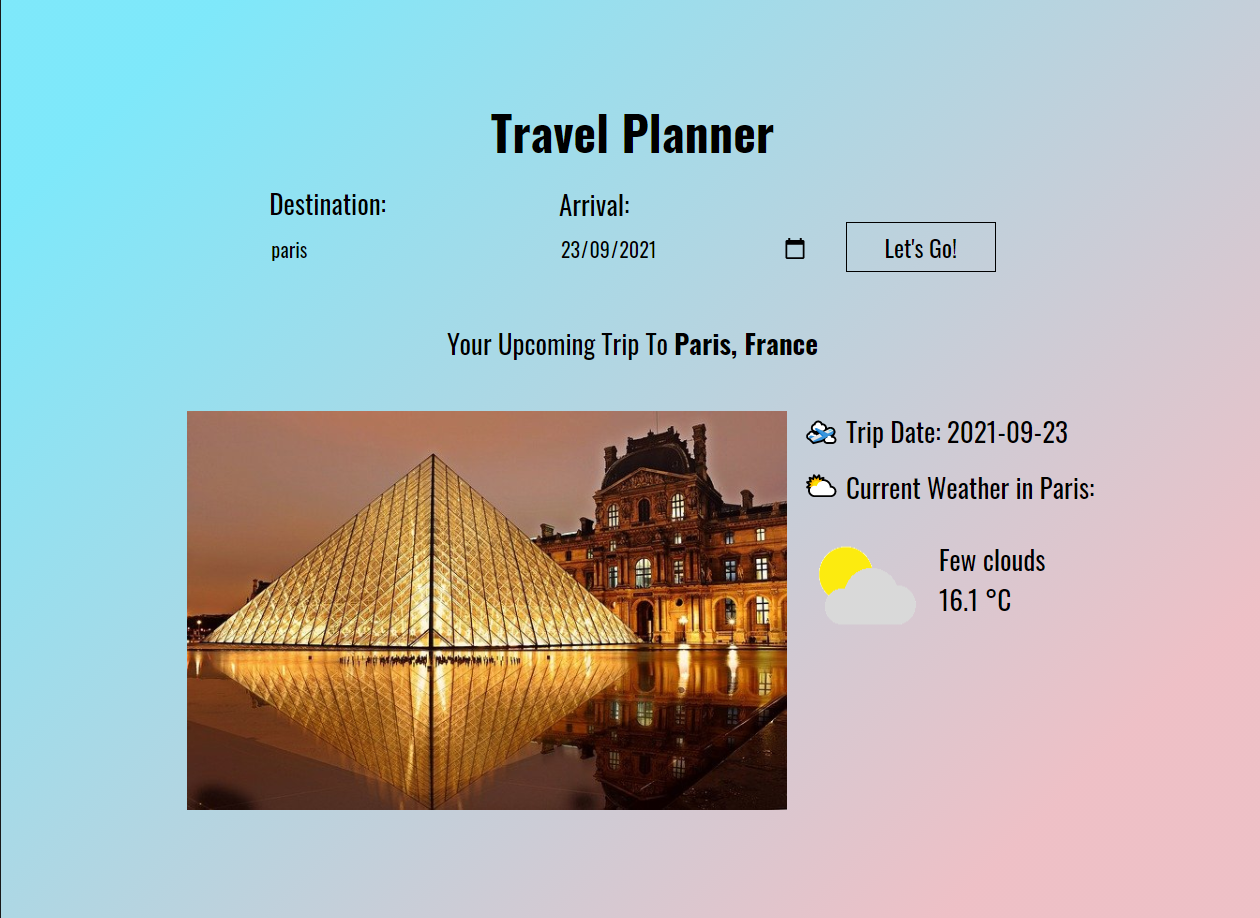
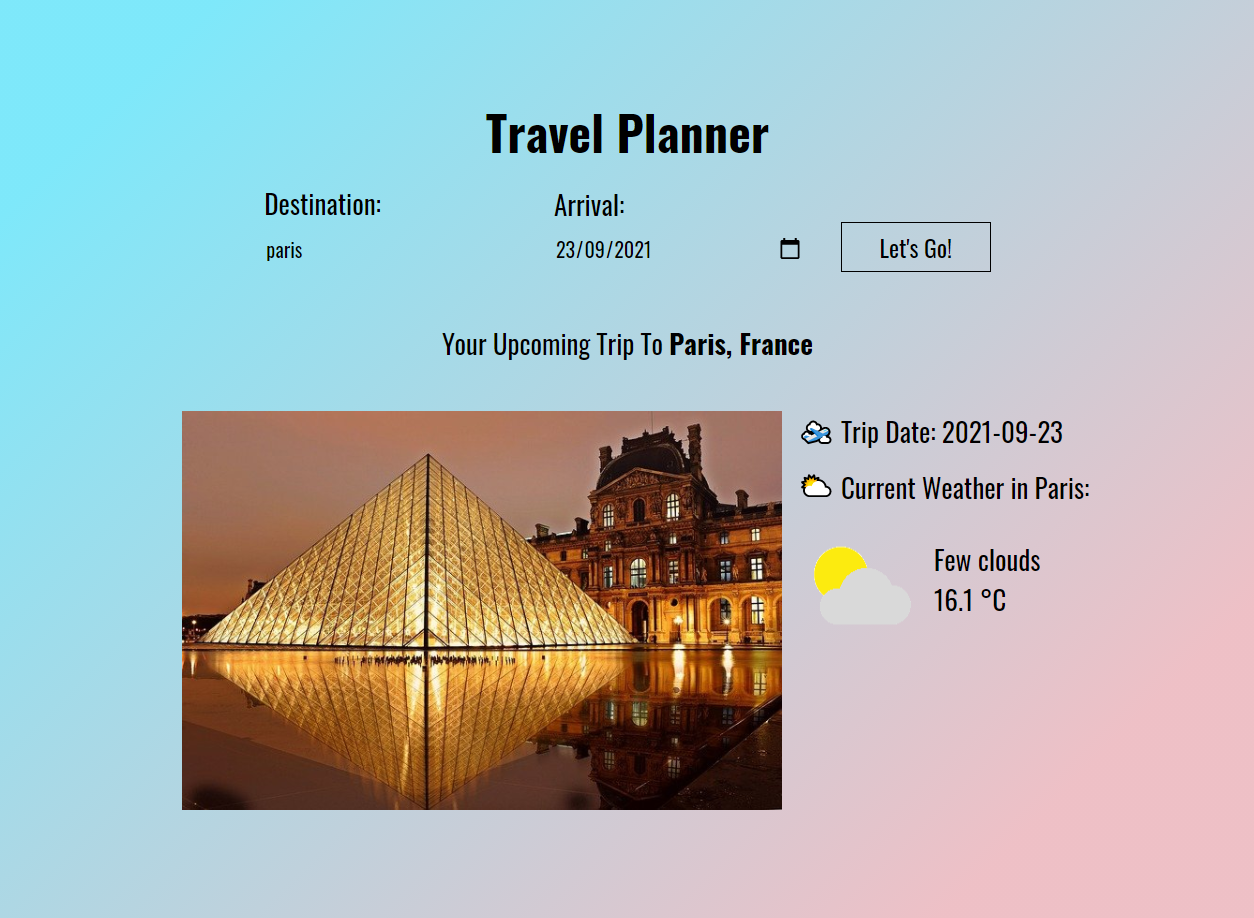
update images

diff --git a/README.md b/README.md
@@ -19,10 +19,13 @@ This app takes in two inputs from the user, destination and travel date, to make
 ## Preview
 
 - Desktop
-  <img src="/img/preview-desktop.png">
+
+  <img src="/img/preview-desktop.png" height="500px">
 
 - Tablet
-  <img src="/img/preview-tablet.png">
+
+  <img src="/img/preview-tablet.png" height="500px">
 
 - Mobile
-  <img src="/img/preview-mobile.png">
+
+  <img src="/img/preview-mobile.png" height="500px">
